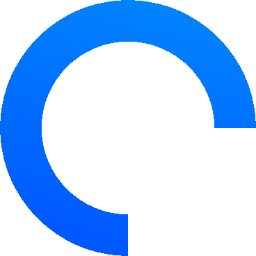
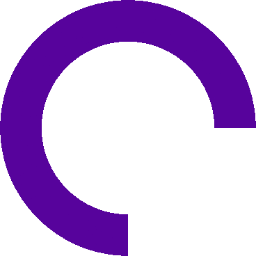
Color fixex and more

diff --git a/src/resources/urls.js b/src/resources/urls.js
@@ -19,7 +19,7 @@ export default {
     /**
      * PenguinMod's terms of service page
      */
-    terms: "https://snail-ide.com/terms",
+    terms: "/terms",
 
     /**
      * PenguinMod's privacy policy page
@@ -62,7 +62,7 @@ export default {
     /**
      * PenguinMod's packager page
      */
-    packager: "https://snail-ide.com/PenguinMod-Packager/",
+    packager: "/PenguinMod-Packager/",
 
     /**
      * PenguinMod's unofficial wiki
@@ -87,7 +87,7 @@ export default {
     /**
      * TurboWarp's website, but I changed it to Penguinmod because we are based off of that
      */
-    turbowarp: "https://snail-ide.com",
+    turbowarp: "/",
 
     /**
      * PenguinMod's github page
@@ -102,12 +102,12 @@ export default {
     /**
      * The admin panel for pm projects api
      */
-    adminPanel: "https://snail-ide.com/panel",
+    adminPanel: "/panel",
 
     /**
      * donate to use yipeee
      */
-    donate: "https://snail-ide.com/donate",
+    donate: "/donate",
 /**
      * our status page lol
      */
@@ -115,7 +115,7 @@ export default {
 /**
      * direct page to upload
      */
-    upload_project: "https://snail-ide.vercel.app/upload",
+    upload_project: "/upload",
     /**
      * docs url
      */

diff --git a/src/routes/forum/+page.svelte b/src/routes/forum/+page.svelte
@@ -20,7 +20,7 @@
     <div class="box">
         <h1 style="font-size: 24px;">Heads up!</h1>
         <p style="font-size: 18px;">The Snail IDE forum is not created by the Snail IDE developers, and is made by a member of the Snail IDE community.</p>
-        <button style="font-size: 20px; padding: 10px 20px;" on:click={goToForum}>Go</button>
+        <button on:click={goToForum}>Go</button>
     </div>
 </div>
 
@@ -49,5 +49,13 @@
         background-color: purple;
         color: white;
         cursor: pointer;
+        font-size: 20px;
+        padding: 10px 20px;
+        border-radius: 10px;
+        transition-duration: 250ms;
+    }
+
+    button:hover {
+        background-color: rgb(111, 0, 111);
     }
 </style>

diff --git a/src/routes/mystuff/+page.svelte b/src/routes/mystuff/+page.svelte
@@ -167,7 +167,7 @@
             <div class="login-prompt">
                 <p>
                     <LocalizedText
-                        text="Please log in to view your PenguinMod projects."
+                        text="Please log in to view your Snail IDE projects."
                         key="mystuff.login"
                         lang={currentLang}
                     />
@@ -297,7 +297,7 @@
     }
 
     .section-info {
-        background: #00c3ffad;
+        background: #6025ebad;
         height: 6rem;
         color: white;
         display: flex;

diff --git a/src/routes/upload/+page.svelte b/src/routes/upload/+page.svelte
@@ -1012,7 +1012,7 @@
     }
 
     .section-info {
-        background: #00c3ffad;
+        background: #6025ebad;
         height: 6rem;
         color: white;
         display: flex;
@@ -1171,7 +1171,7 @@
 
     .file-picker {
         display: block;
-        background-color: #00c3ff;
+        background-color: var(--penguinmod-color);
         color: white;
         border-radius: 1000px;
         width: 100%;

diff --git a/src/routes/terms/+page.svelte b/src/routes/terms/+page.svelte
@@ -212,7 +212,7 @@
         }
     
         .section-info {
-            background: #00c3ffad;
+            background: #6025ebad;
             height: 12rem;
             color: white;
             display: flex;
